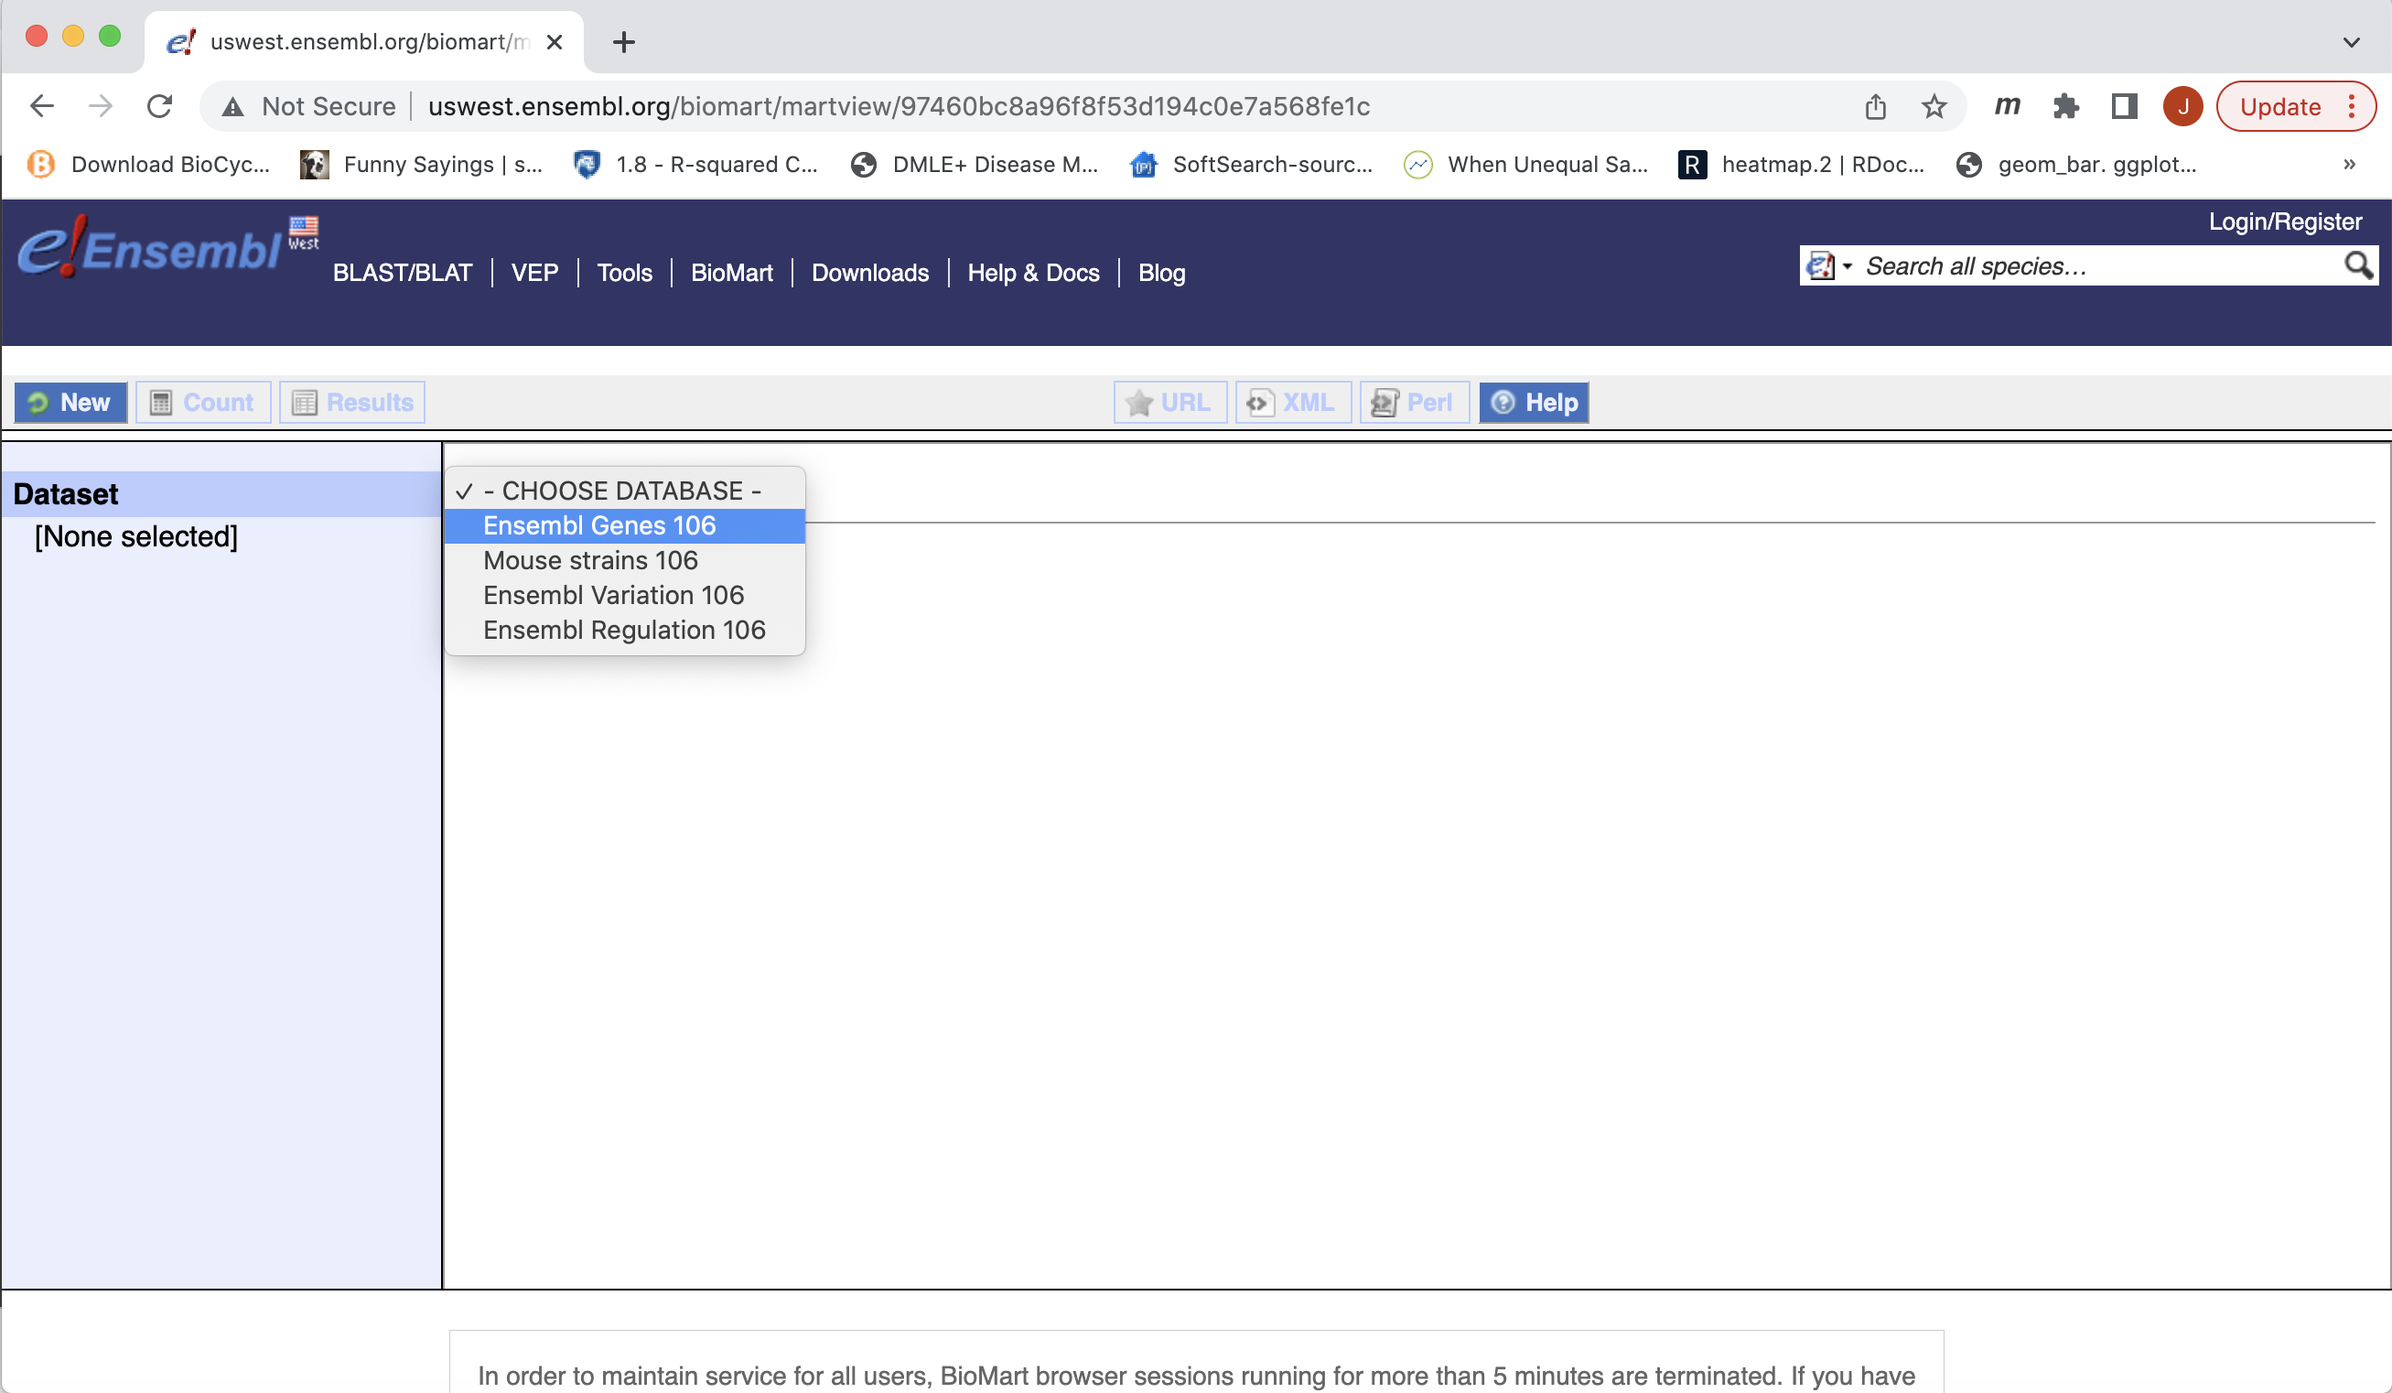
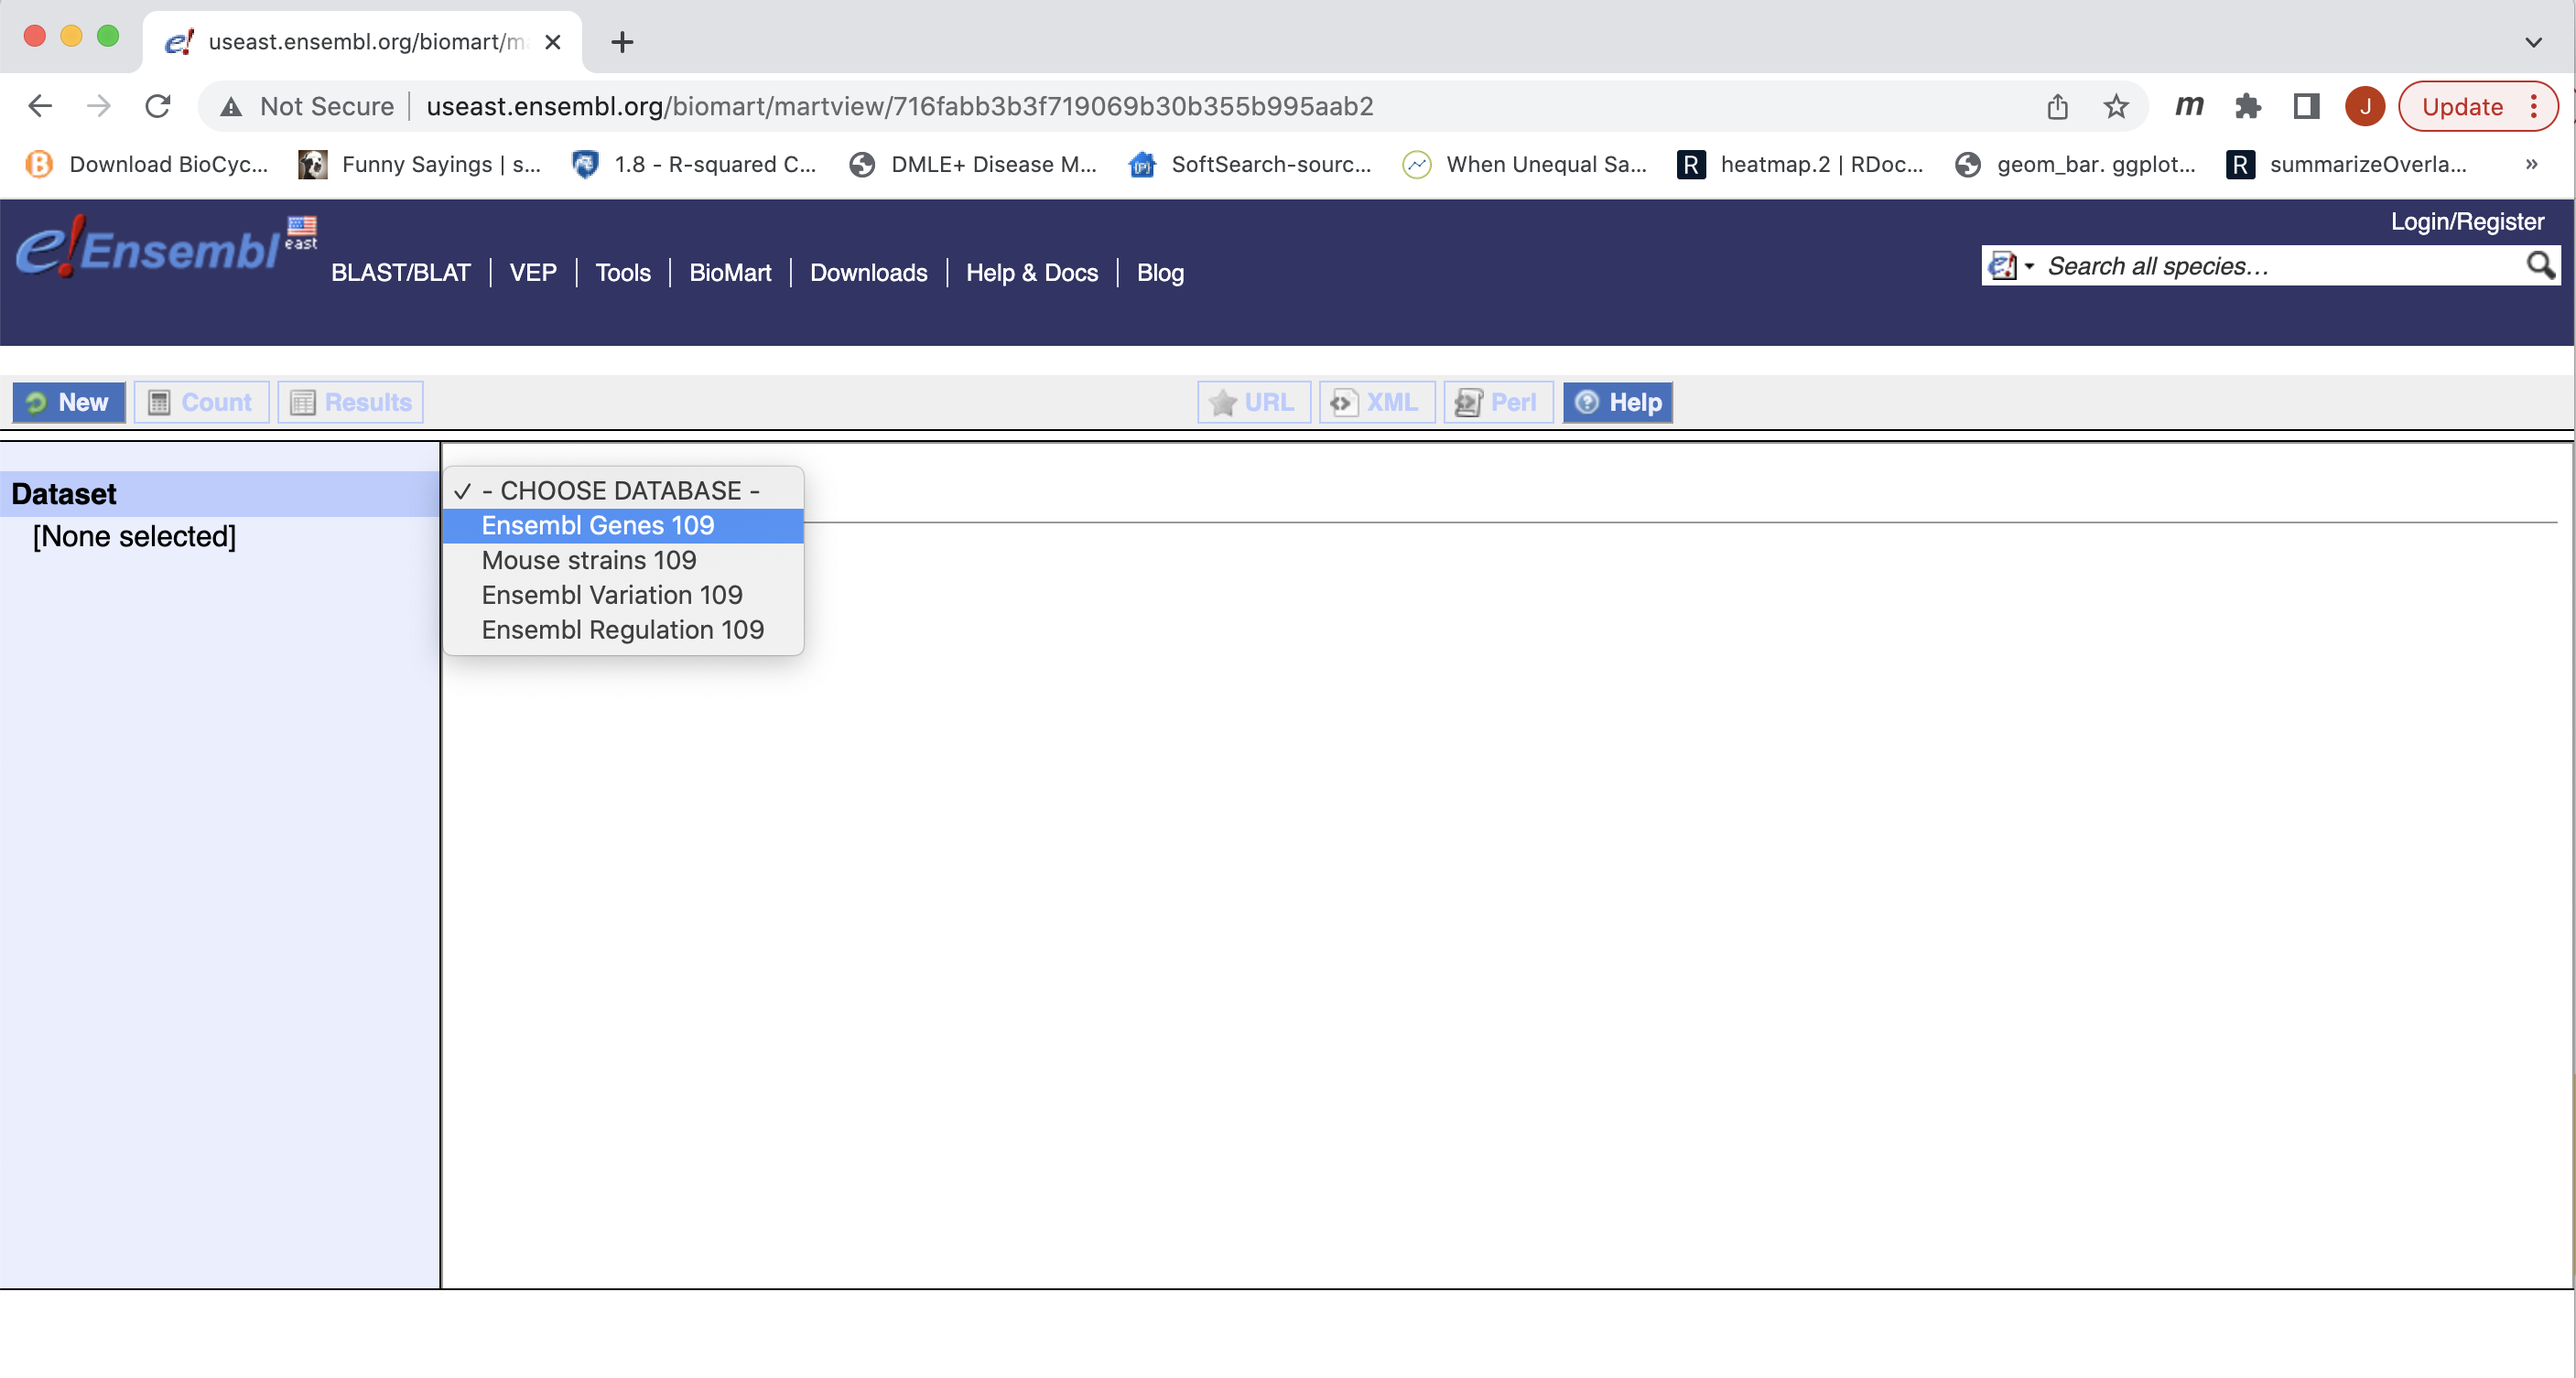
biormart

diff --git a/data_analysis/annotation_mm.md b/data_analysis/annotation_mm.md
@@ -2,7 +2,7 @@
 
 Annotation from [BioMart](https://uswest.ensembl.org/biomart/martview/)  with Ensembl names is most flexible way to retrieve tabular annotation for an organism.
 
-1. The [Biomart](https://uswest.ensembl.org/biomart/martview/) start page should look like ...
+1. The [Biomart](https://useast.ensembl.org/biomart/martview/) start page should look like ...
 
 <img src="annotation_mm_figures/annotation_figures1.png" alt="annotation_figures1" width="80%" style="border:5px solid #ADD8E6;"/>
 
